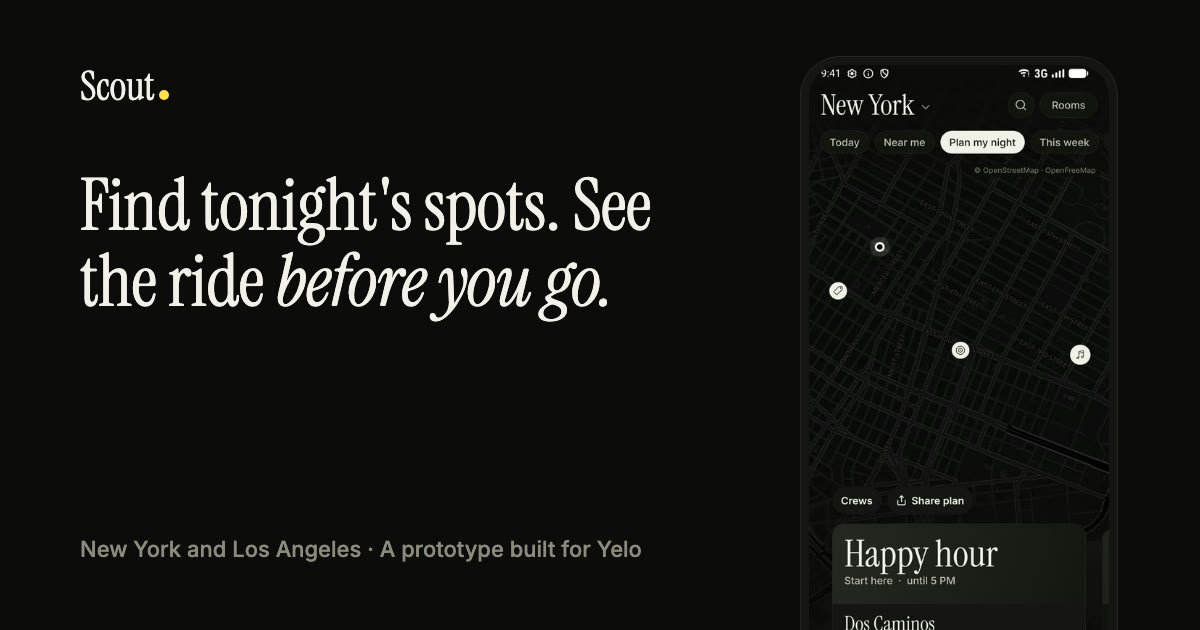
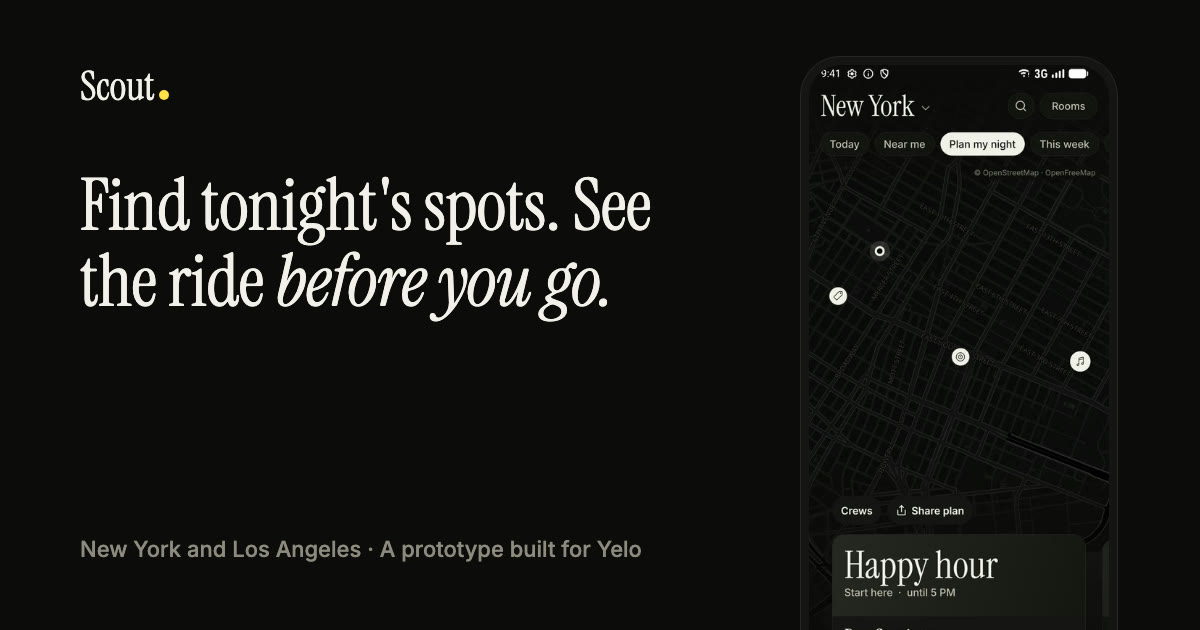
Site: screenshots at their true proportions; rooms list doesn't shift

diff --git a/site/index.html b/site/index.html
@@ -87,7 +87,7 @@
   .qr p { margin: 0; font-size: 16px; color: var(--ink-2); max-width: 22em; }
 
   .phone { justify-self: center; width: min(300px, 78vw); border-radius: 36px; padding: 8px; background: #0E0E0D; }
-  .phone img { display: block; width: 100%; border-radius: 28px; box-sizing: border-box; padding-top: 14px; background: #0C0C0A; } /* the rounded corners clip empty space, not the status bar */
+  .phone img { display: block; width: 100%; height: auto; border-radius: 28px; box-sizing: border-box; padding-top: 14px; background: #0C0C0A; } /* the rounded corners clip empty space, not the status bar */
 
   h2 { font: 400 clamp(32px, 4vw, 40px)/1.1 var(--display); margin: 0; text-wrap: balance; }
   section { margin-top: 64px; }
@@ -96,7 +96,7 @@
 
   .screens { display: grid; grid-template-columns: repeat(4, minmax(0, 1fr)); gap: 16px; }
   figure { margin: 0; display: grid; gap: 12px; align-content: start; min-width: 0; }
-  figure img { width: 100%; border-radius: 12px; border: 1px solid var(--line); }
+  figure img { width: 100%; height: auto; border-radius: 12px; border: 1px solid var(--line); }
   /* Screens end where the phone does; fade the last few percent so a cut-off row dissolves. */
   .screens figure img { -webkit-mask-image: linear-gradient(#000 95%, transparent); mask-image: linear-gradient(#000 95%, transparent); }
   figcaption { font-size: 16px; color: var(--ink-2); }
@@ -164,7 +164,7 @@
       </div>
     </div>
 
-    <div class="phone"><img src="shot-map.jpg" alt="Scout in New York with Plan my night on: three stops on the map, a Share plan button, and the first stop, Dos Caminos, a happy hour until 5 PM marked Start here" width="414" height="900"></div>
+    <div class="phone"><img src="shot-map.jpg" alt="Scout in New York with Plan my night on: three stops on the map, a Share plan button, and the first stop, Dos Caminos, a happy hour until 5 PM marked Start here" width="414" height="920"></div>
   </div>
 
   <section aria-labelledby="inside">
@@ -173,7 +173,7 @@
       <p>Real screens from the app, with live data the agent found on the web this week.</p>
     </div>
     <div class="screens">
-      <figure><img src="shot-map-la.jpg" alt="Los Angeles today: search, Near me and Plan my night above numbered bubbles across the city, and a card for Gold-Diggers, a Yelo partner, tonight at 7 PM" loading="lazy" width="414" height="900">
+      <figure><img src="shot-map-la.jpg" alt="Los Angeles today: search, Near me and Plan my night above numbered bubbles across the city, and a card for Gold-Diggers, a Yelo partner, tonight at 7 PM" loading="lazy" width="414" height="920">
         <figcaption><b>One map for the night</b>New York and Los Angeles, refreshed every few minutes. Search for “jazz” or “under $20”, see which happy hours are on now, or tap Plan my night for a route of two or three stops close together.</figcaption></figure>
       <figure><img src="shot-spot.jpg" alt="Nublu, a Yelo partner, started at 10 PM: Maya and you are going, your crew is leaving now and both of you are on the way, and Ride with Yelo" loading="lazy" width="414" height="900">
         <figcaption><b>Ride there</b>Each spot shows the time, the address, which friends are going, and the ride there with its price.</figcaption></figure>

diff --git a/site/rooms.html b/site/rooms.html
@@ -45,7 +45,7 @@
   .summary { margin: 16px 0 0; color: var(--ink-3); font-size: 14px; font-variant-numeric: tabular-nums; }
 
   /* Rows: room, size, quiet night, rider views, action. On phones each row stacks. */
-  .rooms { list-style: none; margin: 16px 0 0; padding: 0; border-top: 1px solid var(--line); }
+  .rooms { list-style: none; margin: 16px 0 0; padding: 0; border-top: 1px solid var(--line); min-height: 60vh; } /* room for the list before it loads: the note below doesn't jump */
   .room { display: grid; grid-template-columns: minmax(0, 1fr) 80px 104px 88px 252px; gap: 16px; align-items: center; padding: 16px 0; border-bottom: 1px solid var(--line); }
   .head { padding-block: 10px; font-size: 13px; font-weight: 500; color: var(--ink-3); }
   .name { min-width: 0; }
